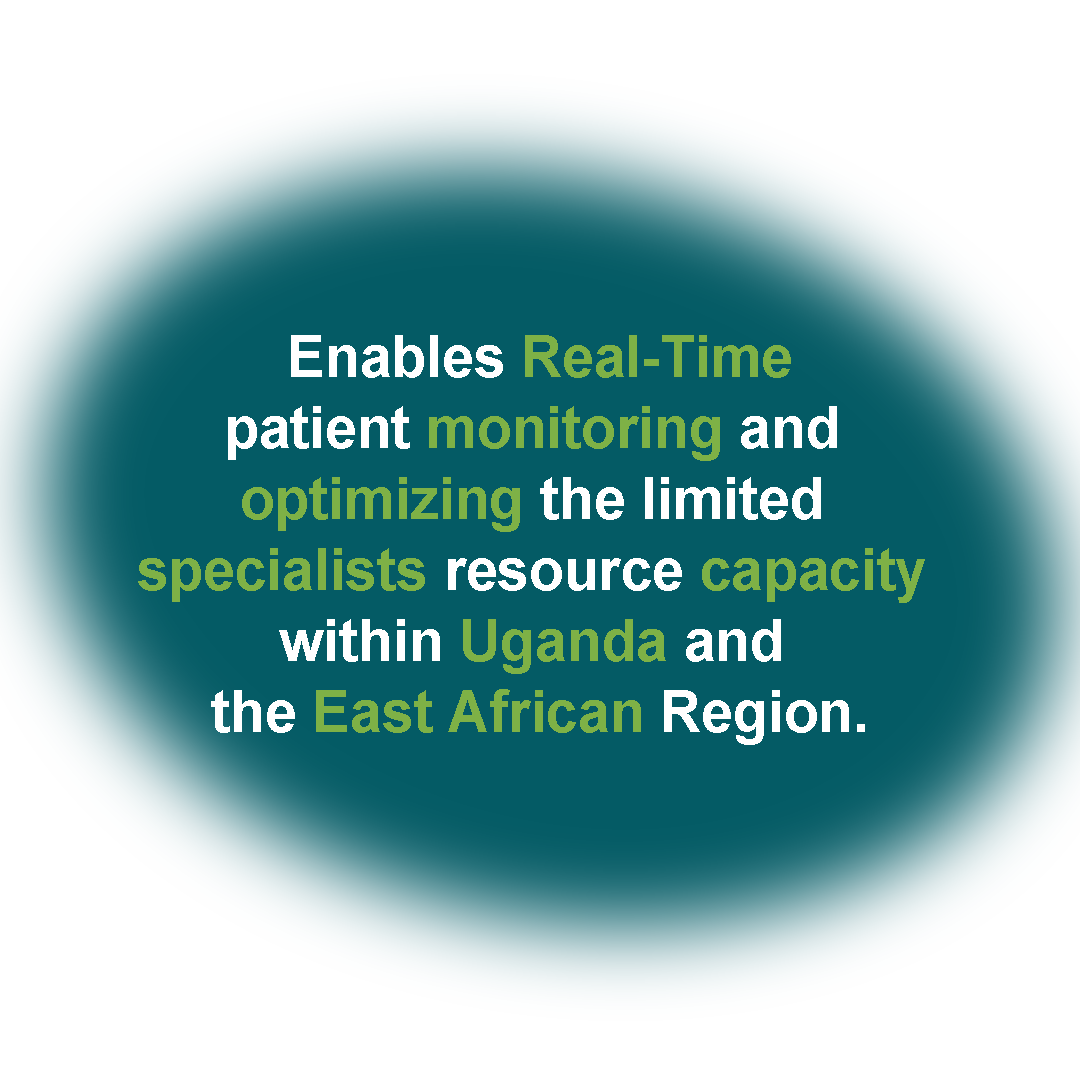
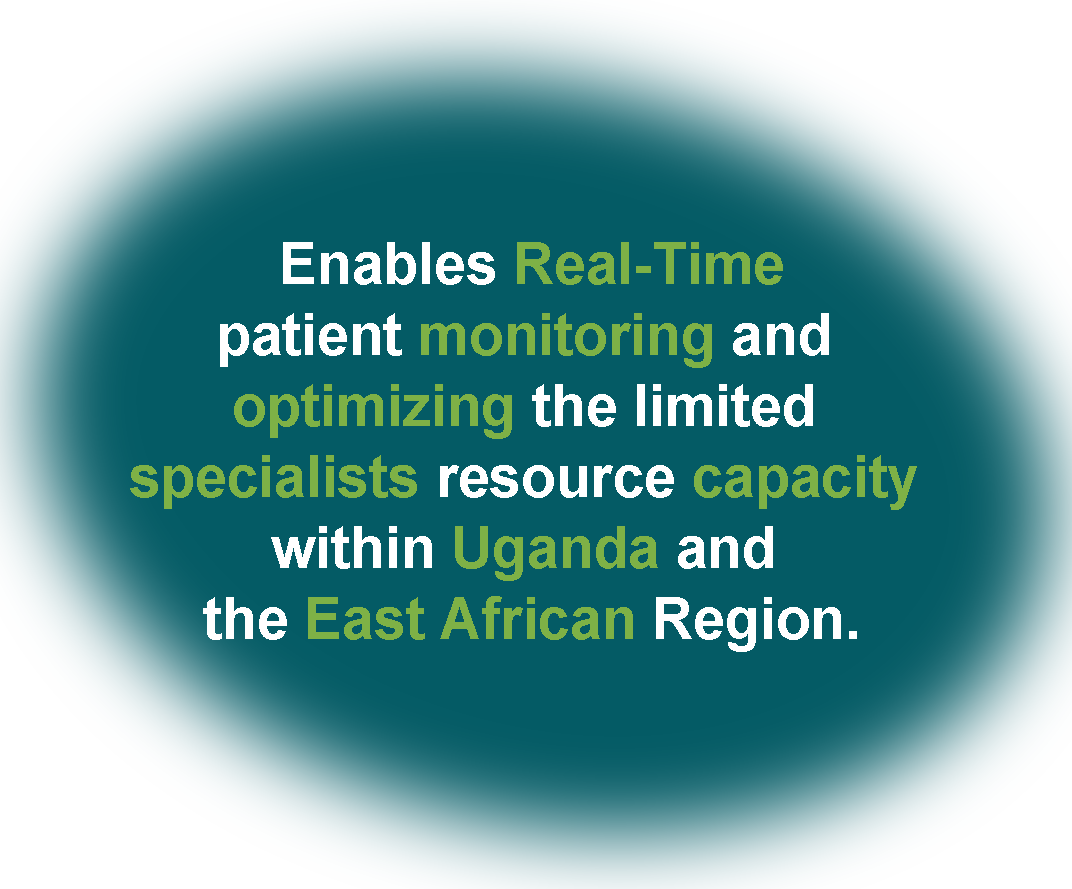
Finished Designs of  Welcome Screen

diff --git a/src/navigation/myScreens/WelcomeScreen.js b/src/navigation/myScreens/WelcomeScreen.js
@@ -4,10 +4,10 @@ import {TouchableOpacity} from 'react-native-gesture-handler';
 import {secondary_color, primary_color} from '../../styles/color';
 import {globalStyles} from '../../styles/Global';
 
-const WelcomeScreen = () => {
+const WelcomeScreen = (navigation) => {
   return (
     <View style={globalStyles.container}>
-      <View>
+      <View style={styles.header}>
         <Image
           source={require('../../assets/img/Criticare_Logo.jpg')}
           style={styles.header}
@@ -25,15 +25,23 @@ const WelcomeScreen = () => {
         />
       </View>
       <View>
-        <TouchableOpacity style={globalStyles.ButtonSmall}>
+        <TouchableOpacity
+          style={globalStyles.ButtonSmall}
+          onPress={() => navigation.navigate('SignInScreen')}>
           <Text style={globalStyles.ButtonText}>Sign In</Text>
         </TouchableOpacity>
       </View>
-      <View style={styles.choice}>
-        <Text style={styles.choiceText}>or</Text>
+      <View style={styles.row}>
+        <View style={styles.choice} />
+        <View>
+          <Text style={styles.choiceText}>OR</Text>
+        </View>
+        <View style={styles.choice} />
       </View>
       <View>
-        <TouchableOpacity style={globalStyles.ButtonSmall}>
+        <TouchableOpacity
+          style={globalStyles.ButtonSmall}
+          onPress={() => navigation.navigate('SignUpScreen')}>
           <Text style={globalStyles.ButtonText}>Get Started</Text>
         </TouchableOpacity>
       </View>
@@ -56,21 +64,41 @@ const styles = StyleSheet.create({
     fontSize: 20,
     color: primary_color,
     textAlign: 'center',
-    marginTop: 40,
     fontWeight: 'bold',
+    top: -20,
   },
   span: {
     color: secondary_color,
   },
   middleText: {
-    height: 300,
-    width: 300,
+    height: 260,
+    width: 350,
+    left: 10,
+    // top: -10,
   },
   choice: {
-    alignItems: 'center',
-    justifyContent: 'center',
+    flex: 1,
+    height: 1,
+    backgroundColor: 'grey',
+    top: 20,
   },
   choiceText: {
     color: 'grey',
+    width: 50,
+    textAlign: 'center',
+    top: 20,
+  },
+  row: {
+    flexDirection: 'row',
+    alignItems: 'center',
+    padding: 10,
+  },
+  header: {
+    padding: 10,
+    alignItems: 'center',
+    height: 150,
+    width: 350,
+    top: -20,
+    left: 10,
   },
 });

diff --git a/src/styles/Global.js b/src/styles/Global.js
@@ -31,9 +31,8 @@ export const globalStyles = StyleSheet.create({
     height: 50,
     alignItems: 'center',
     justifyContent: 'center',
-    marginTop: 30,
+    marginTop: 10,
     marginBottom: 10,
-   // padding: 0,
   },
   SubmitButton: {
     width: 100,
@@ -54,7 +53,8 @@ export const globalStyles = StyleSheet.create({
     marginVertical: 16,
     marginHorizontal: 8,
     height: 40,
-    marginTop: 30,
+    marginTop: 10,
+    top: 20,
   },
   ButtonText: {
     // fontSize: 18,

diff --git a/src/styles/color.js b/src/styles/color.js
@@ -1,4 +1,4 @@
-export const primary_color = '#007360';
+export const primary_color = '#005a65';
 export const body_color = '#ffff';
 export const input_color = '#DEDDDD';
 export const secondary_color = '#7EB146';
